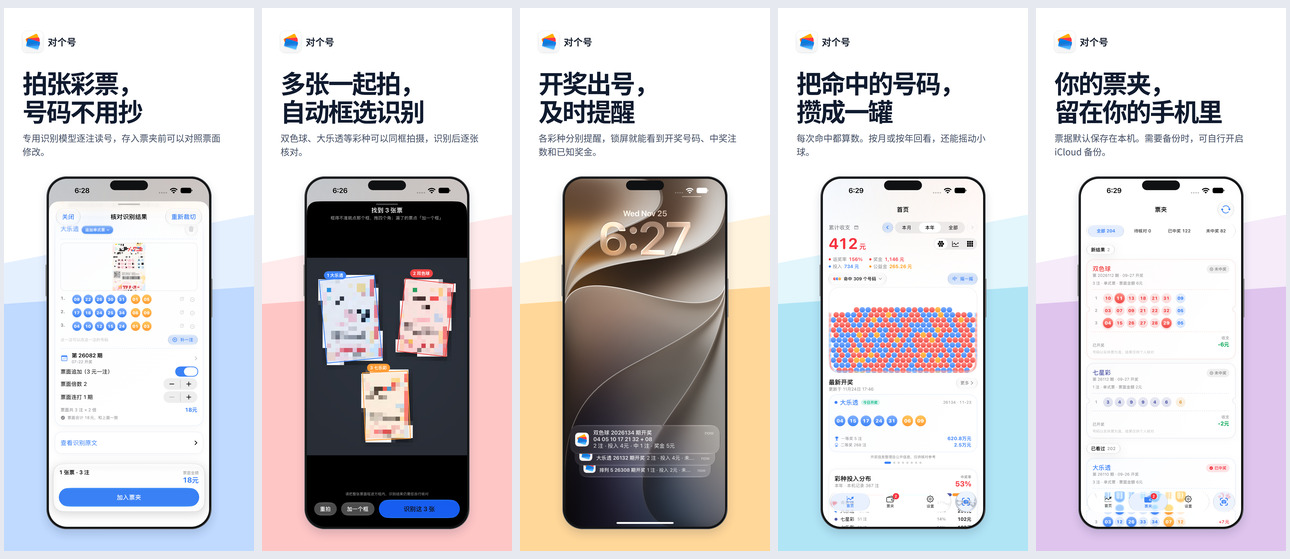
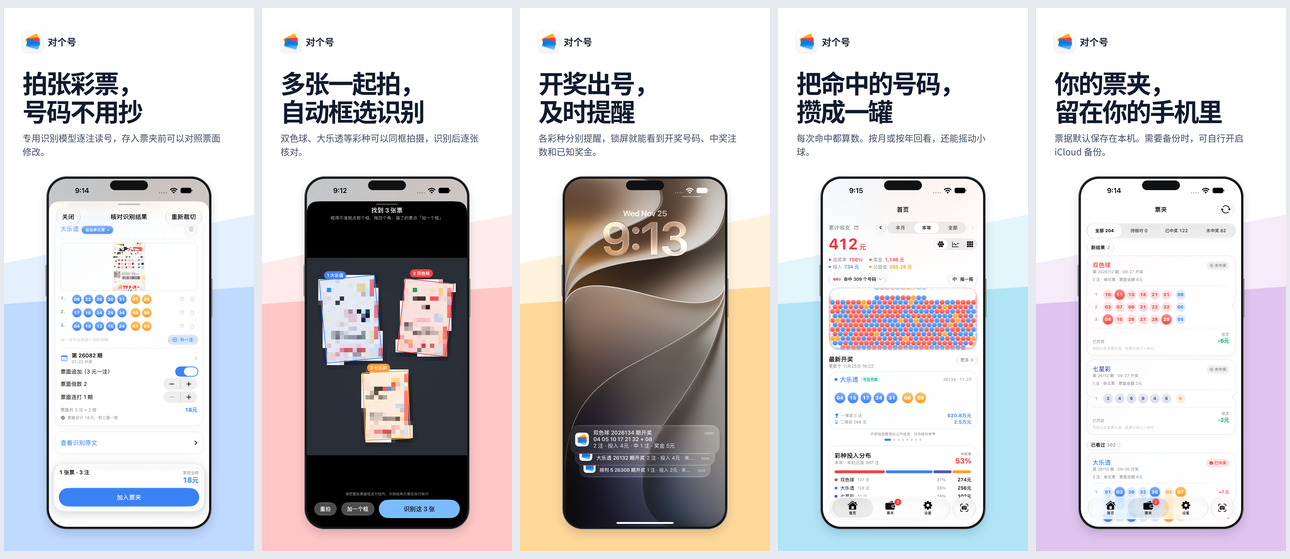
修复全部票据页彩种悬浮条纵向定高、修正月度步进与吸顶测试断言并更新 App Store 宣传图

diff --git a/Tests/LotteryWalletUITests/KeyFlowTests.swift b/Tests/LotteryWalletUITests/KeyFlowTests.swift
@@ -92,9 +92,12 @@ final class KeyFlowTests: XCTestCase {
 
         let allGamesChip = app.buttons["全部彩种"].firstMatch
         XCTAssertTrue(allGamesChip.waitForExistence(timeout: 8), "「全部票据」页应显示彩种悬浮筛选条")
+        RunLoop.current.run(until: Date().addingTimeInterval(0.6))
         let initialY = allGamesChip.frame.minY
-        app.swipeUp()
-        app.swipeUp()
+        let start = app.coordinate(withNormalizedOffset: CGVector(dx: 0.5, dy: 0.72))
+        let end = app.coordinate(withNormalizedOffset: CGVector(dx: 0.5, dy: 0.32))
+        start.press(forDuration: 0.1, thenDragTo: end, withVelocity: .slow, thenHoldForDuration: 0.3)
+        RunLoop.current.run(until: Date().addingTimeInterval(0.5))
         XCTAssertTrue(allGamesChip.exists && allGamesChip.isHittable, "上滑后彩种筛选条应固定在顶部")
         XCTAssertLessThan(abs(allGamesChip.frame.minY - initialY), 6, "上滑后彩种筛选条不应随列表滚走")
     }
@@ -173,14 +176,14 @@ final class KeyFlowTests: XCTestCase {
             style.buttons.element(boundBy: index).tap()
             XCTAssertTrue(range.buttons["2026-07"].isSelected)
         }
-        // 验证首页内联左右快捷步进：切到 8 月、9 月均完整显示不截断，再退回 7 月保持深色截图一致。
+        // 验证首页内联左右快捷步进：往后切到 8 月、再切回示例当月（本月），退回 7 月保持深色截图一致。
         let next = app.buttons["home.period.next"]
         let prev = app.buttons["home.period.prev"]
         XCTAssertTrue(next.waitForExistence(timeout: 5))
         next.tap()
         XCTAssertTrue(range.buttons["2026-08"].waitForExistence(timeout: 5))
         next.tap()
-        XCTAssertTrue(range.buttons["2026-09"].waitForExistence(timeout: 5))
+        XCTAssertTrue(range.buttons["本月"].waitForExistence(timeout: 5))
         prev.tap()
         XCTAssertTrue(range.buttons["2026-08"].waitForExistence(timeout: 5))
         prev.tap()

diff --git a/LotteryWallet/Features/Wallet/WalletView.swift b/LotteryWallet/Features/Wallet/WalletView.swift
@@ -607,6 +607,7 @@ struct WalletAllTicketsView: View {
                 .padding(.vertical, 2)
             }
         }
+        .fixedSize(horizontal: false, vertical: true)
         .scrollClipDisabled()
         .animation(.easeOut(duration: 0.2), value: game)
     }
